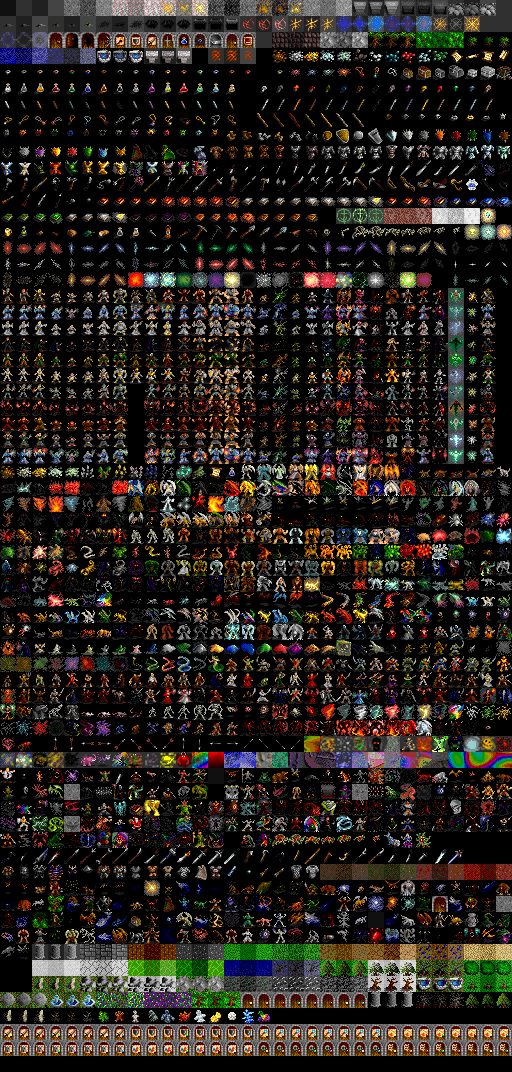
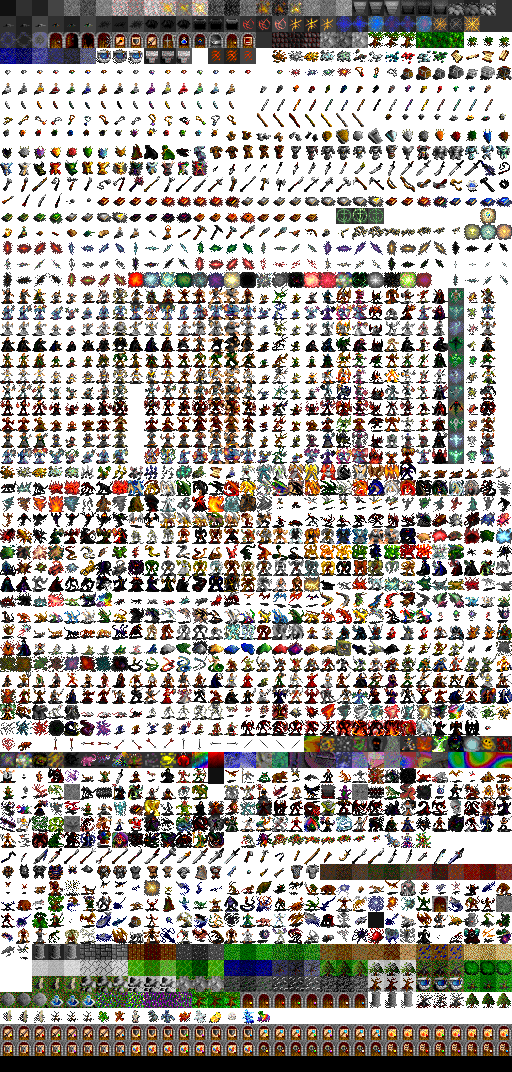
Fix tile transparency and layering
- Apply mask.bmp as alpha channel for proper tile transparency
- Implement tile layering (terrain + entities) using rot.js string[]
- Fix player terrain lookup to use world coords in wilderness
- Fix display mode sync to prevent ASCII errors when tiles not ready

diff --git a/src/ui/components/GameViewport.tsx b/src/ui/components/GameViewport.tsx
@@ -69,7 +69,7 @@ export function GameViewport() {
   const { useTiles: tilesEnabled } = useSettingsStore();
   const { tileManager, tileImage } = useTiles();
 
-  const { ref, display, gridWidth, gridHeight } = useROTDisplay({
+  const { ref, display, gridWidth, gridHeight, useTiles: actualTilesMode } = useROTDisplay({
     fontSize: 16,
     useTiles: tilesEnabled,
     tileManager,
@@ -108,17 +108,18 @@ export function GameViewport() {
     display.clear();
 
     // Helper to draw a cell - handles both ASCII and tile modes
+    // In tile mode, tileKeys is an array for layering (terrain on bottom, entities on top)
     const drawCell = (
       sx: number,
       sy: number,
       symbol: string,
       fg: string,
       bg: string,
-      tileKey?: string
+      tileKeys?: string[]
     ) => {
-      if (tilesEnabled && tileKey && tileManager) {
-        // In tile mode, draw with tile key (fg/bg ignored but required by signature)
-        display.draw(sx, sy, tileKey, null, null);
+      if (actualTilesMode && tileKeys && tileKeys.length > 0 && tileManager) {
+        // In tile mode, draw layered tiles (rot.js supports string[] for layering)
+        display.draw(sx, sy, tileKeys, null, null);
       } else {
         // ASCII mode
         display.draw(sx, sy, symbol, fg, bg);
@@ -152,25 +153,28 @@ export function GameViewport() {
         // Handle unexplored tiles - but telepathy can still see monsters
         if (!isExplored) {
           // Check for telepathy monsters even on unexplored tiles
-          // TODO: Replace with proper VisionSystem.canSeeMonster() integration
           if (player.hasTelepathy) {
             const monster = level.getMonsterAt(levelPos);
             if (monster && !monster.isDead) {
               const monsterTileKey = tileManager ? tileManager.getTileKey('monster', monster.def.index) : `m:${monster.def.index}`;
-              drawCell(screenX, screenY, monster.symbol, '#f0f', '#000', monsterTileKey);
+              // Layer: floor + monster (for telepathy on unexplored)
+              drawCell(screenX, screenY, monster.symbol, '#f0f', '#000', ['f:1', monsterTileKey]);
               continue;
             }
           }
-          drawCell(screenX, screenY, ' ', '#000', '#000', ' ');
+          drawCell(screenX, screenY, ' ', '#000', '#000', [' ']);
           continue;
         }
 
-        // Get terrain display
+        // Get terrain display - this is always the base layer
         const terrain = tile.terrain;
         let symbol = terrain.symbol;
         let fg = parseColor(terrain.color);
         const bg = '#000';
-        let tileKey = tileManager ? tileManager.getTileKey('feature', terrain.index) : `f:${terrain.index}`;
+        const terrainTileKey = tileManager ? tileManager.getTileKey('feature', terrain.index) : `f:${terrain.index}`;
+
+        // Build tile layers: terrain is always base
+        const tileLayers: string[] = [terrainTileKey];
 
         if (isVisible) {
           // Full visibility - show traps, items, and monsters
@@ -182,26 +186,28 @@ export function GameViewport() {
           if (trap && trap.isRevealed && trap.isActive) {
             symbol = trap.symbol;
             fg = parseColor(trap.color);
-            // Traps don't have tile mappings, fall back to terrain tile
+            // Traps don't have tile mappings yet, terrain remains as tile
           }
 
-          // Check for items at this position (items cover traps)
+          // Check for items at this position (items layer on top of terrain)
           const items = level.getItemsAt(levelPos);
           if (items.length > 0) {
             const topItem = items[items.length - 1];
             symbol = topItem.symbol;
             fg = parseColor(topItem.color);
-            if (topItem.generated?.baseItem.index !== undefined) {
-              tileKey = tileManager ? tileManager.getTileKey('item', topItem.generated.baseItem.index) : `i:${topItem.generated.baseItem.index}`;
+            if (topItem.generated?.baseItem.index !== undefined && tileManager) {
+              tileLayers.push(tileManager.getTileKey('item', topItem.generated.baseItem.index));
             }
           }
 
-          // Check for monsters at this position (monsters on top)
+          // Check for monsters at this position (monsters layer on top)
           const monster = level.getMonsterAt(levelPos);
           if (monster && !monster.isDead) {
             symbol = monster.symbol;
             fg = parseColor(monster.color);
-            tileKey = tileManager ? tileManager.getTileKey('monster', monster.def.index) : `m:${monster.def.index}`;
+            if (tileManager) {
+              tileLayers.push(tileManager.getTileKey('monster', monster.def.index));
+            }
           }
         } else {
           // Explored but not visible - dim terrain only
@@ -212,36 +218,40 @@ export function GameViewport() {
           if (remembered) {
             symbol = remembered.symbol;
             fg = parseColor(remembered.color);
-            // Use remembered monster's tile key if available
-            if (remembered.defIndex !== undefined) {
-              tileKey = tileManager ? tileManager.getTileKey('monster', remembered.defIndex) : `m:${remembered.defIndex}`;
+            if (remembered.defIndex !== undefined && tileManager) {
+              tileLayers.push(tileManager.getTileKey('monster', remembered.defIndex));
             }
           }
 
           // Telepathy shows monsters even when not visible
-          // TODO: Replace with proper VisionSystem.canSeeMonster() integration
-          // that handles EMPTY_MIND, WEIRD_MIND flags and infravision
           if (player.hasTelepathy) {
             const monster = level.getMonsterAt(levelPos);
             if (monster && !monster.isDead) {
               symbol = monster.symbol;
-              // Show telepathic monsters in a distinct color (purple/violet)
               fg = '#f0f';
-              tileKey = tileManager ? tileManager.getTileKey('monster', monster.def.index) : `m:${monster.def.index}`;
+              if (tileManager) {
+                tileLayers.push(tileManager.getTileKey('monster', monster.def.index));
+              }
             }
           }
         }
 
-        drawCell(screenX, screenY, symbol, fg, bg, tileKey);
+        drawCell(screenX, screenY, symbol, fg, bg, tileLayers);
       }
     }
 
-    // Draw player at screen position (always on top)
+    // Draw player at screen position (always on top, layered over terrain)
     const playerScreen = camera.worldToScreen(playerScreenPos);
-    drawCell(playerScreen.x, playerScreen.y, '@', '#fff', '#000', '@');
+    // For wilderness, player.position is world coords; for dungeons, same as playerScreenPos
+    const playerWorldPos = isWilderness ? player.position : playerScreenPos;
+    const playerTile = level.getTile(playerWorldPos);
+    const playerTerrainKey = playerTile && tileManager
+      ? tileManager.getTileKey('feature', playerTile.terrain.index)
+      : 'f:1';
+    drawCell(playerScreen.x, playerScreen.y, '@', '#fff', '#000', [playerTerrainKey, '@']);
 
-    // Draw targeting cursor if active
-    if (state.cursor) {
+    // Draw targeting cursor if active (ASCII mode only - tile mode can't show highlight)
+    if (state.cursor && !actualTilesMode) {
       const cursorScreen = camera.worldToScreen(state.cursor);
       // Only draw if on screen
       if (cursorScreen.x >= 0 && cursorScreen.x < gridWidth &&
@@ -267,12 +277,11 @@ export function GameViewport() {
           }
         }
 
-        // Draw with bright magenta background to highlight cursor position
-        // Note: In tile mode, cursor highlighting doesn't work well with tiles,
-        // so we fall back to ASCII for the cursor
+        // Draw cursor with magenta background for visibility
         display.draw(cursorScreen.x, cursorScreen.y, symbol, '#fff', '#f0f');
       }
     }
+    // TODO: Add cursor overlay support for tile mode (requires canvas layering)
   }
 
   return <div ref={ref} style={{ width: '100%', height: '100%', overflow: 'hidden' }} />;

diff --git a/src/ui/hooks/useROTDisplay.ts b/src/ui/hooks/useROTDisplay.ts
@@ -35,15 +35,6 @@ export function useROTDisplay(options: UseROTDisplayOptions = {}) {
     asciiCellSize.current = { width: canvas.width, height: canvas.height };
   }
 
-  // Get current cell size based on mode
-  const getCellSize = useCallback(() => {
-    if (useTiles && tileManager) {
-      const size = tileManager.getTileSize();
-      return { width: size.width, height: size.height };
-    }
-    return asciiCellSize.current!;
-  }, [useTiles, tileManager]);
-
   // Container ref
   const containerRef = useRef<HTMLDivElement>(null!);
 
@@ -65,43 +56,22 @@ export function useROTDisplay(options: UseROTDisplayOptions = {}) {
 
   const state = useSyncExternalStore(subscribe, getSnapshot);
 
-  // Create display function
-  const createDisplay = useCallback(
-    (gridWidth: number, gridHeight: number): ROT.Display => {
-      if (useTiles && tileManager && tileImage) {
-        const tileMap = tileManager.buildRotTileMap();
-        const { width: tileWidth, height: tileHeight } = tileManager.getTileSize();
-        return new ROT.Display({
-          width: gridWidth,
-          height: gridHeight,
-          layout: 'tile',
-          tileWidth,
-          tileHeight,
-          tileSet: tileImage,
-          tileMap: tileMap as Record<string, [number, number]>,
-        });
-      }
-      return new ROT.Display({ width: gridWidth, height: gridHeight, fontSize, fontFamily });
-    },
-    [useTiles, tileManager, tileImage, fontSize, fontFamily]
-  );
-
   // Rebuild display when mode changes
   useEffect(() => {
     const container = containerRef.current;
     if (!container) return;
 
-    // If mode hasn't changed, nothing to do
-    if (stateRef.current.useTiles === useTiles && stateRef.current.display) {
+    // Determine if we can actually use tiles (need manager and image)
+    const effectiveUseTiles = !!(useTiles && tileManager && tileImage);
+
+    // If effective mode hasn't changed, nothing to do
+    if (stateRef.current.useTiles === effectiveUseTiles && stateRef.current.display) {
       return;
     }
 
-    // Need tile image for tile mode
-    if (useTiles && (!tileManager || !tileImage)) {
-      return;
-    }
-
-    const cellSize = getCellSize();
+    const cellSize = effectiveUseTiles
+      ? { width: tileManager!.getTileSize().width, height: tileManager!.getTileSize().height }
+      : asciiCellSize.current!;
     const rect = container.getBoundingClientRect();
     const gridWidth = Math.floor(rect.width / cellSize.width);
     const gridHeight = Math.floor(rect.height / cellSize.height);
@@ -111,13 +81,23 @@ export function useROTDisplay(options: UseROTDisplayOptions = {}) {
     // Remove old display
     stateRef.current.display?.getContainer()?.remove();
 
-    // Create new display
-    const display = createDisplay(gridWidth, gridHeight);
+    // Create new display (ASCII if tiles not ready)
+    const display = effectiveUseTiles
+      ? new ROT.Display({
+          width: gridWidth,
+          height: gridHeight,
+          layout: 'tile',
+          tileWidth: tileManager!.getTileSize().width,
+          tileHeight: tileManager!.getTileSize().height,
+          tileSet: tileImage!,
+          tileMap: tileManager!.buildRotTileMap() as Record<string, [number, number]>,
+        })
+      : new ROT.Display({ width: gridWidth, height: gridHeight, fontSize, fontFamily });
     container.appendChild(display.getContainer()!);
 
-    stateRef.current = { display, gridWidth, gridHeight, useTiles };
+    stateRef.current = { display, gridWidth, gridHeight, useTiles: effectiveUseTiles };
     listenersRef.current.forEach((l) => l());
-  }, [useTiles, tileManager, tileImage, createDisplay, getCellSize]);
+  }, [useTiles, tileManager, tileImage, fontSize, fontFamily]);
 
   // Handle resize
   useResizeObserver<HTMLDivElement>({
@@ -126,10 +106,12 @@ export function useROTDisplay(options: UseROTDisplayOptions = {}) {
       const container = containerRef.current;
       if (!container) return;
 
-      // Need tile image for tile mode
-      if (useTiles && (!tileManager || !tileImage)) return;
+      // Determine if we can actually use tiles
+      const effectiveUseTiles = !!(useTiles && tileManager && tileImage);
 
-      const cellSize = getCellSize();
+      const cellSize = effectiveUseTiles
+        ? { width: tileManager!.getTileSize().width, height: tileManager!.getTileSize().height }
+        : asciiCellSize.current!;
       const gridWidth = Math.floor(width / cellSize.width);
       const gridHeight = Math.floor(height / cellSize.height);
 
@@ -137,18 +119,28 @@ export function useROTDisplay(options: UseROTDisplayOptions = {}) {
       if (
         gridWidth === stateRef.current.gridWidth &&
         gridHeight === stateRef.current.gridHeight &&
-        useTiles === stateRef.current.useTiles
+        effectiveUseTiles === stateRef.current.useTiles
       )
         return;
 
       // Remove old display
       stateRef.current.display?.getContainer()?.remove();
 
-      // Create new display
-      const display = createDisplay(gridWidth, gridHeight);
+      // Create new display (ASCII if tiles not ready)
+      const display = effectiveUseTiles
+        ? new ROT.Display({
+            width: gridWidth,
+            height: gridHeight,
+            layout: 'tile',
+            tileWidth: tileManager!.getTileSize().width,
+            tileHeight: tileManager!.getTileSize().height,
+            tileSet: tileImage!,
+            tileMap: tileManager!.buildRotTileMap() as Record<string, [number, number]>,
+          })
+        : new ROT.Display({ width: gridWidth, height: gridHeight, fontSize, fontFamily });
       container.appendChild(display.getContainer()!);
 
-      stateRef.current = { display, gridWidth, gridHeight, useTiles };
+      stateRef.current = { display, gridWidth, gridHeight, useTiles: effectiveUseTiles };
       listenersRef.current.forEach((l) => l());
     },
   });
